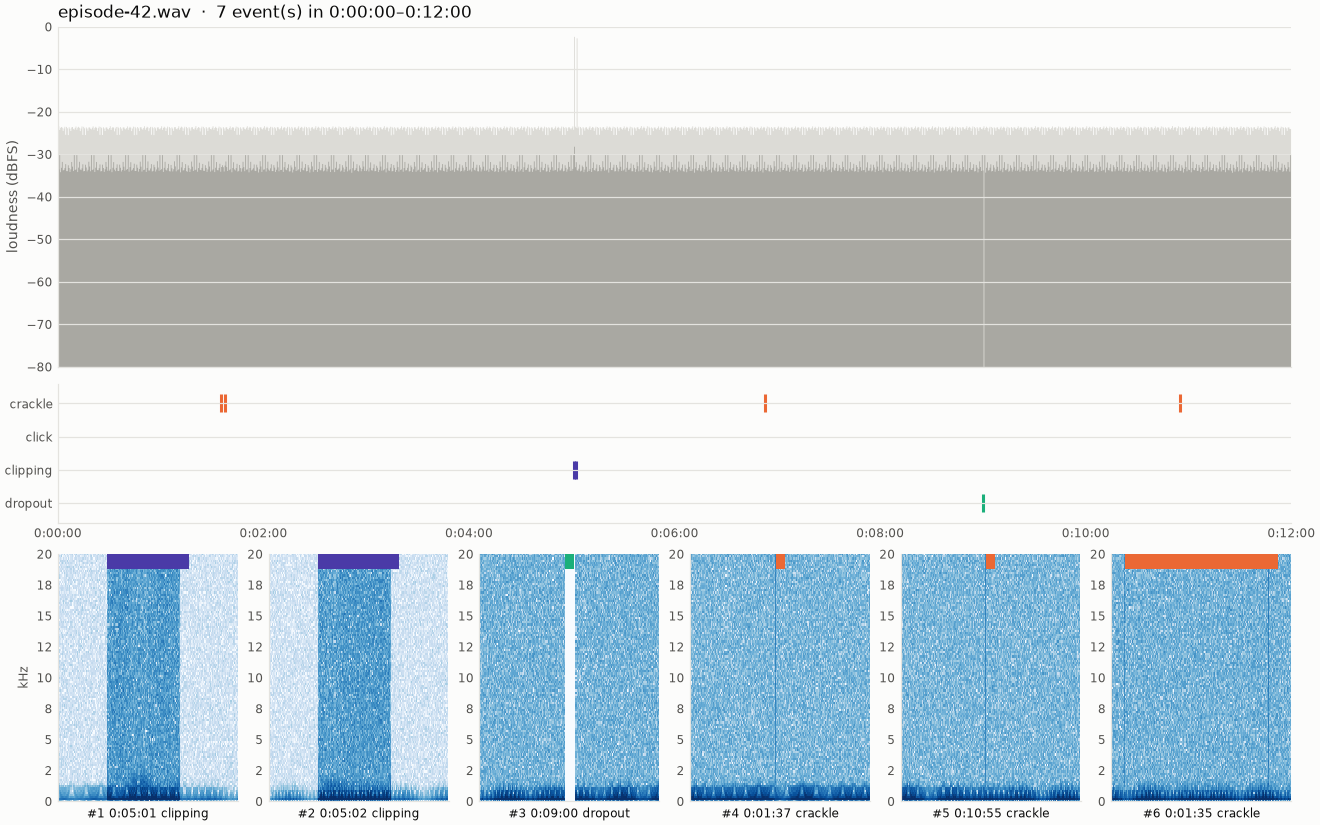
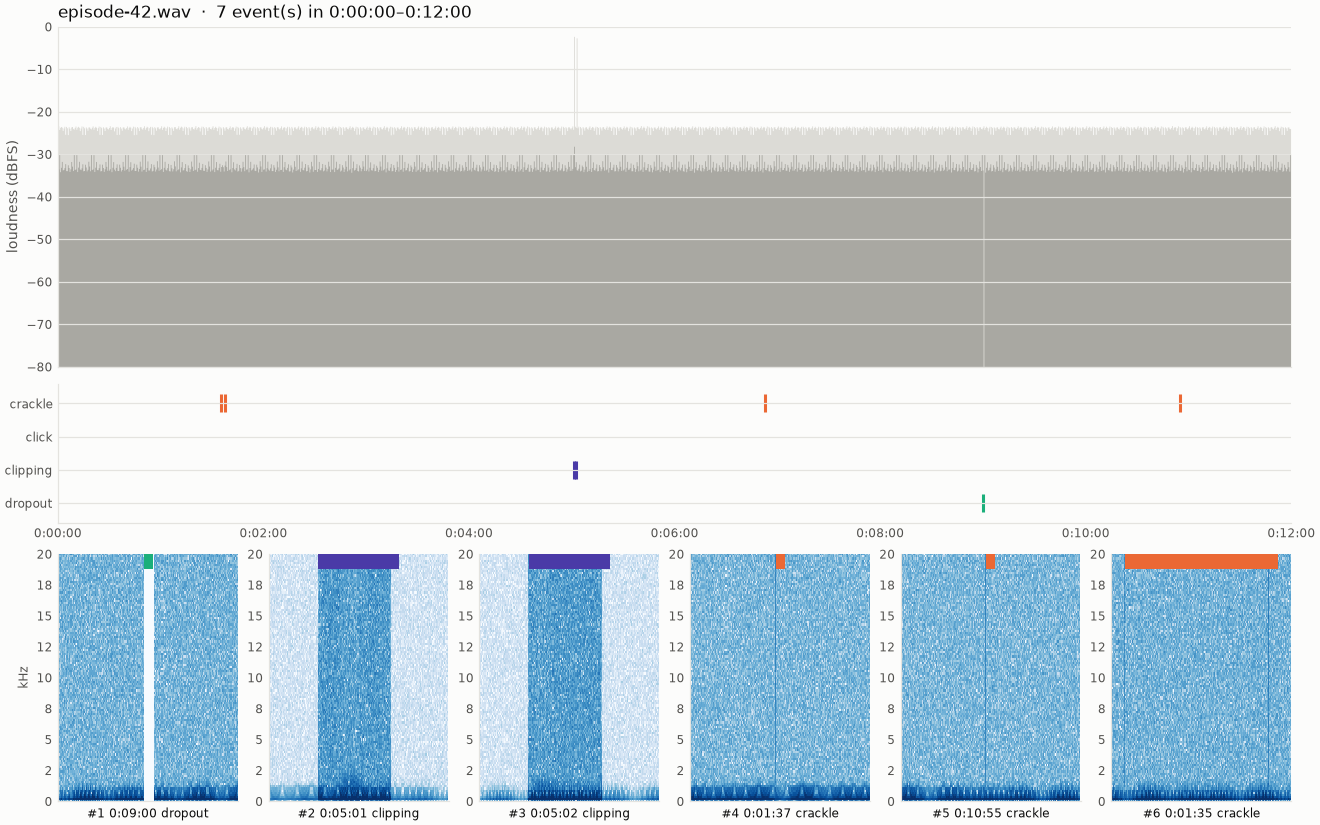
fix: cap clipping scores so they don't drown out other events (#15)
Closes #14. Clipping bonus capped at 20 samples; events labelled dropout > clipping > peak kind. Prototype regression still exact with the cap lifted.

Changed region(s): [[0.0311, 0.6667, 0.497, 1.0]]

diff --git a/src/crackle_finder/detect.py b/src/crackle_finder/detect.py
@@ -23,6 +23,9 @@ CLIP_MIN_SAMPLES = 3
 DROPOUT_DB = -60
 LOUD_DB = -35
 DROPOUT_BONUS = 5
+# Each clipped sample adds 1 to the score, up to this many. Uncapped (as in the
+# prototype) a clipped frame reaches ~2200 and crowds every other event out of the top N.
+CLIP_SCORE_CAP = 20
 MIN_FRAMES = 10
 CHUNK_FRAMES = 1200  # 60 s at 50 ms frames: bounds the float64 temporaries
 EPS = 1e-9
@@ -120,7 +123,7 @@ def frame_scores(
     kind = np.where(z_crest >= z_jump, CRACKLE, CLICK)
     kind = np.where(clipped, CLIPPING, kind)
     kind = np.where(dropout, DROPOUT, kind)
-    score = np.where(clipped, np.maximum(score, z + clip), score)
+    score = np.where(clipped, np.maximum(score, z + np.minimum(clip, CLIP_SCORE_CAP)), score)
     score = np.where(dropout, np.maximum(score, z + DROPOUT_BONUS), score)
     return score, kind
 
@@ -168,8 +171,22 @@ def detect(
                 start=offset + s * frame,
                 end=offset + (e + 1) * frame,
                 score=float(score[peak]),
-                kind=str(kind[peak]),
+                kind=event_kind(kind[s : e + 1], str(kind[peak])),
                 hits=int((seg > z).sum()),
             )
         )
     return events
+
+
+def event_kind(kinds: np.ndarray, peak_kind: str) -> str:
+    """Label an event with the same precedence a single frame uses.
+
+    Any dropout frame makes it a dropout, else any clipped frame makes it clipping;
+    otherwise the peak frame decides between crackle and click. With clipping scores
+    capped, a neighbouring crackle frame can outscore the clipped ones, and the event
+    would otherwise be mislabelled.
+    """
+    for kind in (DROPOUT, CLIPPING):
+        if kind in kinds:
+            return kind
+    return peak_kind

diff --git a/tests/test_detect.py b/tests/test_detect.py
@@ -5,10 +5,12 @@ from synth import SR, speech_like
 from crackle_finder import CrackleFinderError
 from crackle_finder.detect import (
     CLICK,
+    CLIP_SCORE_CAP,
     CLIPPING,
     CRACKLE,
     DROPOUT,
     detect,
+    event_kind,
     frame_scores,
     merge_frames,
     robust_z,
@@ -101,3 +103,28 @@ def test_events_are_sorted_by_time(defects):
 def test_too_short_raises():
     with pytest.raises(CrackleFinderError, match="too short"):
         detect(np.zeros(SR // 10, dtype=np.float32), SR)
+
+
+def test_clipping_score_is_capped(defects):
+    clipping = [e for e in detect(defects.audio, SR) if e.kind == CLIPPING]
+    assert clipping
+    assert all(e.score <= 6.0 + CLIP_SCORE_CAP for e in clipping)
+
+
+def test_heavy_clipping_no_longer_scores_in_the_hundreds(defects):
+    # 0.3 s of 20x overdrive scored 1148 uncapped, far above every other event.
+    (clip,) = [e for e in detect(defects.audio, SR) if e.kind == CLIPPING]
+    assert clip.score == 6.0 + CLIP_SCORE_CAP
+
+
+@pytest.mark.parametrize(
+    ("kinds", "peak", "expected"),
+    [
+        (["crackle", "clipping", "crackle"], "crackle", "clipping"),
+        (["clipping", "dropout"], "clipping", "dropout"),
+        (["click", "crackle"], "click", "click"),
+        (["crackle"], "crackle", "crackle"),
+    ],
+)
+def test_event_kind_precedence(kinds, peak, expected):
+    assert event_kind(np.array(kinds), peak) == expected

diff --git a/tests/test_cli.py b/tests/test_cli.py
@@ -58,8 +58,8 @@ def test_end_to_end(defects_wav, defects, tmp_path, capsys):
     stdout = capsys.readouterr().out
     assert f"5 event(s) -> {folder}/" in stdout
     assert "showing top 5 by score" in stdout
-    # Clipping scores highest, so it is rank 1 in the table and the clips.
-    assert stdout.splitlines()[-5].split()[:2] == ["1", "0:00:25"]
+    # The dropout scores highest (its hard edges are huge sample jumps), so it is rank 1.
+    assert stdout.splitlines()[-5].split()[:2] == ["1", "0:00:33"]
     lines = (folder / "timestamps.txt").read_text().splitlines()
     assert lines[0].startswith("0:00:05  ")
     assert any(line.startswith("0:00:25  clipping") for line in lines)
@@ -107,7 +107,8 @@ def test_clips_of_top_events(defects_wav, tmp_path):
     clips = tmp_path / "r" / "episode_01" / "clips"
     assert cli.main([str(defects_wav), "--out", str(tmp_path / "r")]) == 0
     names = sorted(p.name for p in clips.iterdir())
-    assert names[0] == "001_0h00m25s_clipping.mp3"
+    assert names[0] == "001_0h00m33s_dropout.mp3"
+    assert "002_0h00m25s_clipping.mp3" in names
     assert len(names) == 5
     assert clip_duration(clips / names[0]) == pytest.approx(3.0, abs=0.1)
 

diff --git a/tests/test_regression.py b/tests/test_regression.py
@@ -8,6 +8,7 @@ import pytest
 from conftest import needs_ffmpeg
 from synth import SR
 
+from crackle_finder import detect as detect_module
 from crackle_finder.audio import load_mono
 from crackle_finder.detect import detect
 
@@ -44,7 +45,11 @@ def run_port(wav: Path, start: float = 0.0, end: float | None = None, **kw):
         (("--start", "0:20", "--end", "50"), {"start": 20.0, "end": 50.0}),
     ],
 )
-def test_port_matches_prototype(defects_wav, proto_args, port_kw):
+def test_port_matches_prototype(defects_wav, proto_args, port_kw, monkeypatch):
+    # Deliberate changes from the prototype: the clipping score cap (lifted here) and
+    # event labels preferring dropout > clipping. Uncapped, clipped frames almost always
+    # win the peak anyway, so on this fixture the labels match the prototype too.
+    monkeypatch.setattr(detect_module, "CLIP_SCORE_CAP", 10**9)
     start = port_kw.pop("start", 0.0)
     end = port_kw.pop("end", None)
     expected = run_prototype(defects_wav, *proto_args)

diff --git a/README.md b/README.md
@@ -60,8 +60,8 @@ crackle-report/episode-42/
 ```
 0:01:35  crackle  (score 25)
 0:01:37  crackle  (score 25)
-0:05:01  clipping  (score 888)
-0:05:02  clipping  (score 756)
+0:05:01  clipping  (score 26)
+0:05:02  clipping  (score 26)
 0:06:52  crackle  (score 25)
 0:09:00  dropout  (score 47)
 0:10:55  crackle  (score 25)
@@ -73,9 +73,9 @@ and the top events on stdout, sorted by score:
 episode-42: 7 event(s) -> crackle-report/episode-42/
 7 event(s), showing top 7 by score
    #      time  length   score  type      frames
-   1   0:05:01   0.45s     888  clipping       8
-   2   0:05:02   0.45s     756  clipping       9
-   3   0:09:00   0.05s      47  dropout        1
+   1   0:09:00   0.05s      47  dropout        1
+   2   0:05:01   0.45s      26  clipping       8
+   3   0:05:02   0.45s      26  clipping       9
    4   0:01:37   0.05s      25  crackle        1
    5   0:10:55   0.05s      25  crackle        1
    6   0:01:35   0.85s      25  crackle        2
@@ -104,14 +104,17 @@ four measurements:
   sharp high-frequency spikes that speech rarely produces.
 - **click**: the largest jump between neighbouring samples, relative to the frame's
   loudness.
-- **clipping**: at least 3 samples above 98.5 % of full scale.
+- **clipping**: at least 3 samples above 98.5 % of full scale. Each clipped sample adds
+  1 to the score, up to 20, so heavy clipping ranks high without drowning out
+  everything else.
 - **dropout**: a frame below -60 dBFS sandwiched between two frames above -35 dBFS.
 
 Crackle and click values are turned into robust z-scores (median and MAD instead of
 mean and standard deviation, so the defects themselves don't skew the baseline). A
 frame is flagged when its score exceeds `--z`; clipping and dropouts are always
-flagged. Flagged frames closer than `--merge` seconds are merged into one event,
-labelled by its highest-scoring frame.
+flagged. Flagged frames closer than `--merge` seconds are merged into one event.
+An event containing a dropout or clipped frame is labelled as such; otherwise its
+highest-scoring frame decides between crackle and click.
 
 ## Limitations
 
@@ -120,8 +123,6 @@ labelled by its highest-scoring frame.
 - **Mono downmix**: a defect in only one channel is diluted when the channels are mixed.
 - **Dropouts** are only caught when they are short (one silent frame, about 50-100 ms)
   and surrounded by speech. Longer gaps look like pauses.
-- **Clipping scores** grow with the number of clipped samples, so heavy clipping
-  outranks everything else in the top-N list.
 - **Memory**: the decoded audio is held in RAM, about 0.75 GB per hour of recording.
 - Scores are relative to the recording itself, so they are not comparable between files.
 
